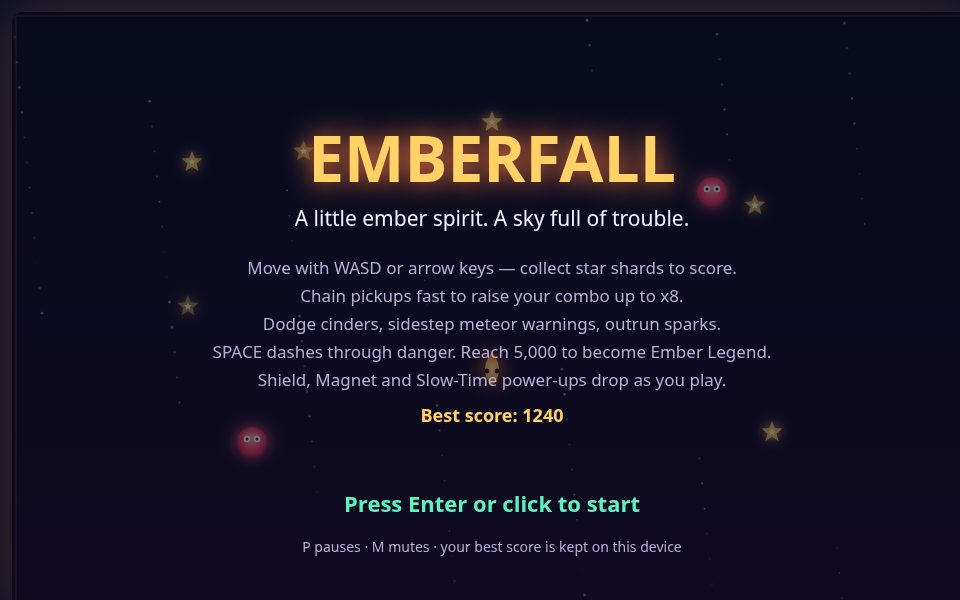
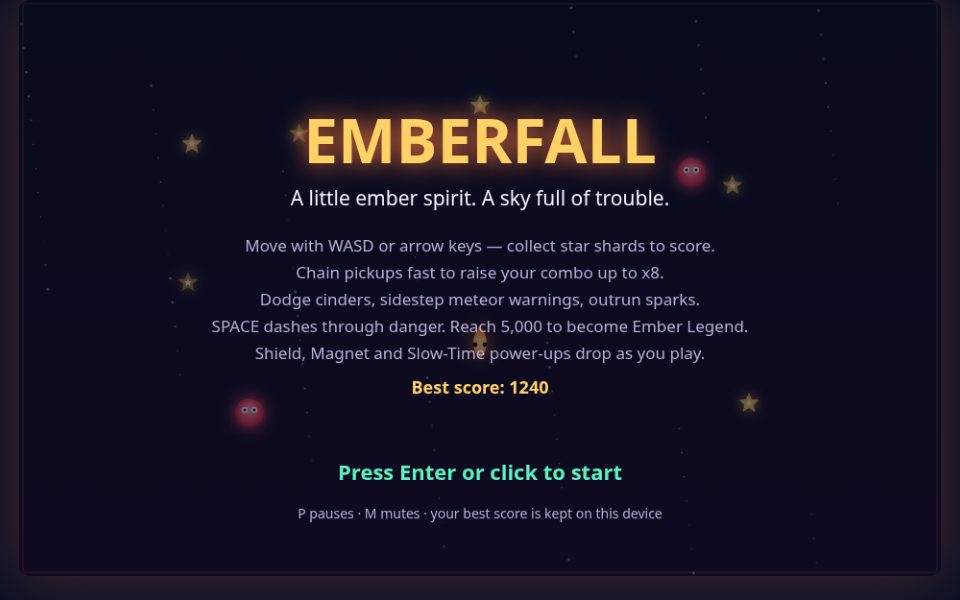
Fix page overflow: canvas scales to the viewport, no scrollbars

diff --git a/game/index.html b/game/index.html
@@ -17,10 +17,15 @@
         font-family: system-ui, sans-serif;
       }
       main {
-        padding: 12px;
+        padding: 0;
+        line-height: 0;
       }
       canvas {
         display: block;
+        max-width: 96vw;
+        max-height: 96vh;
+        width: auto;
+        height: auto;
         border-radius: 10px;
         box-shadow: 0 0 60px rgba(255, 122, 60, 0.25);
       }
